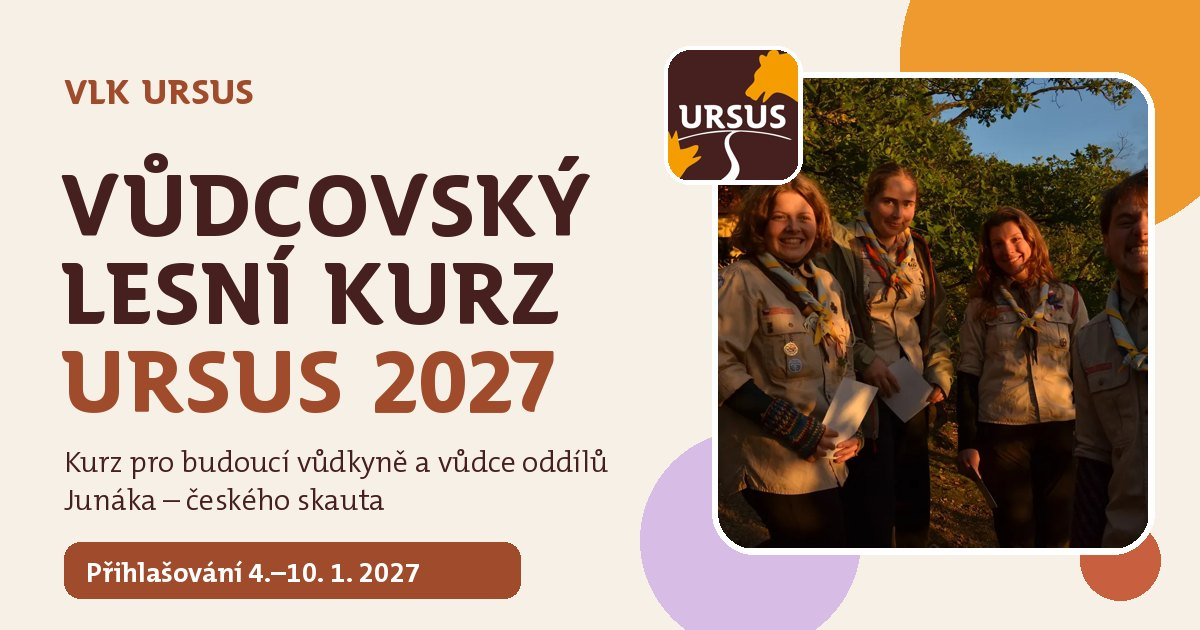
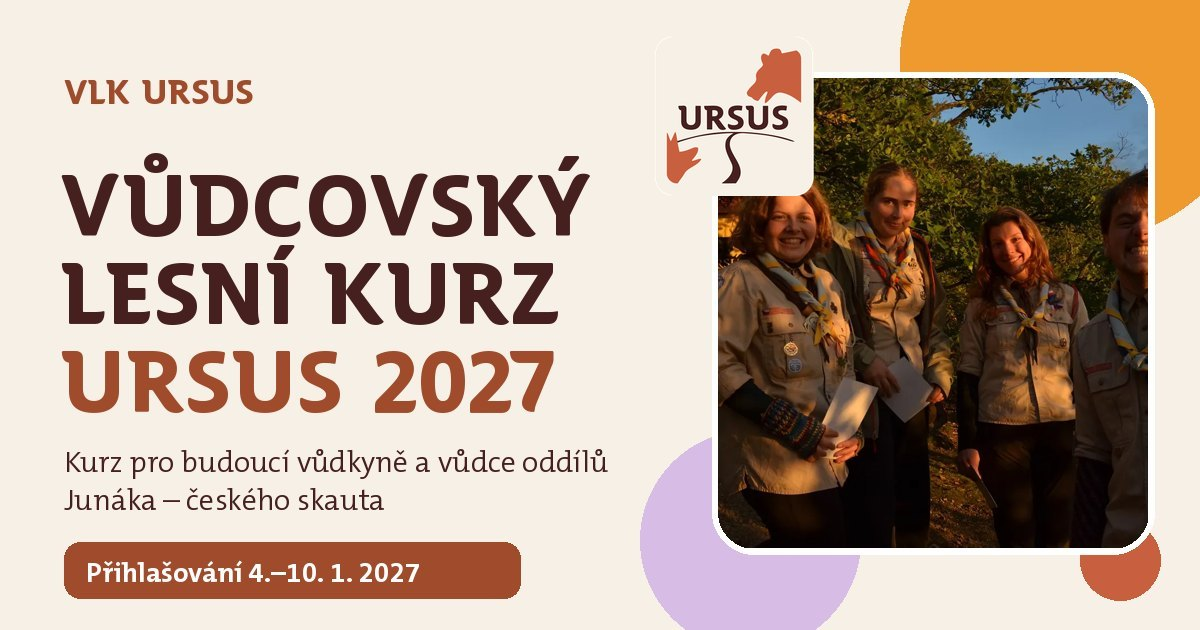
Loga v nové paletě od Hadky
- hlavička: malé základní logo (terakota + kakao na krému) vedle názvu
- úvod: základní logo místo starého kakaového
- patička: logo terakota + máslová na kakau
- náhledový obrázek pro sdílení a logo ve strukturovaných datech

Claude-Session: https://claude.ai/code/session_01NFcX1Hsy9UQGpHzYrXCkTP

Changed region(s): [[0.555, 0.0603, 0.6783, 0.3317]]

diff --git a/components/header.tsx b/components/header.tsx
@@ -1,5 +1,6 @@
 'use client'
 
+import Image from 'next/image'
 import Link from 'next/link'
 import { useEffect, useRef, useState } from 'react'
 import { Menu, X } from 'lucide-react'
@@ -26,7 +27,8 @@ export function Header({ base = '' }: { base?: string }) {
   return (
     <header ref={ref} className="sticky top-0 z-50 border-b border-b-pisek bg-krem">
       <div className="mx-auto flex h-16 max-w-6xl items-center justify-between px-4 sm:px-6">
-        <Link href={base || '#'} className="flex items-center gap-2" onClick={() => setOpen(false)}>
+        <Link href={base || '#'} className="flex items-center gap-2.5" onClick={() => setOpen(false)}>
+          <Image src="/logo/ursus-zakladni.webp" alt="" width={40} height={40} priority className="h-10 w-10" />
           <span className="font-heading text-2xl font-bold tracking-[0.06em] text-palena">VLK Ursus</span>
         </Link>
 

diff --git a/components/footer.tsx b/components/footer.tsx
@@ -9,7 +9,7 @@ export function Footer({ base = '' }: { base?: string }) {
       <div className="mx-auto max-w-6xl px-4 sm:px-6 py-14 grid gap-10 md:grid-cols-[1.2fr_1fr_1fr]">
         <div>
           <div className="flex items-center gap-4">
-            <Image src="/ursus-logo-bile.webp" alt="" width={80} height={80} className="h-20 w-20 shrink-0 object-contain" />
+            <Image src="/logo/ursus-kakao-tile.webp" alt="" width={96} height={96} className="h-24 w-24 shrink-0 object-contain" />
             <div>
               <p className="font-heading text-3xl font-bold uppercase leading-none text-maslova">VLK Ursus</p>
               <p className="mt-2 text-krem/85">Vůdcovský lesní kurz Junáka – českého skauta</p>

diff --git a/components/sections.tsx b/components/sections.tsx
@@ -60,8 +60,8 @@ export function Hero() {
               className="object-cover"
             />
           </div>
-          <div className="absolute left-[2%] top-[4%] h-[24%] w-[24%] overflow-hidden rounded-2xl border-[5px] border-bila">
-            <Image src="/ursus-logo-kakao.webp" alt="Logo kurzu Ursus" fill sizes="140px" className="object-cover" />
+          <div className="absolute left-[2%] top-[4%] aspect-square w-[26%] overflow-hidden rounded-[13%] shadow-[0_10px_24px_rgba(69,32,31,0.22)]">
+            <Image src="/logo/ursus-zakladni.webp" alt="Logo kurzu Ursus" fill sizes="160px" className="object-cover" />
           </div>
         </div>
       </div>

diff --git a/components/structured-data.tsx b/components/structured-data.tsx
@@ -20,7 +20,7 @@ export function StructuredData() {
     name: 'VLK Ursus',
     alternateName: 'Vůdcovský lesní kurz Ursus',
     url: `${siteUrl}/`,
-    logo: `${siteUrl}/icon-512.png`,
+    logo: `${siteUrl}/logo/ursus-512.png`,
     email: links.email,
     sameAs: [links.facebook, links.instagram],
     parentOrganization: {
